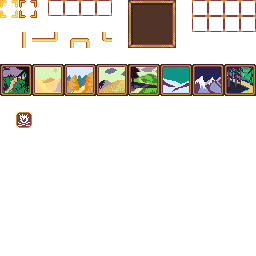
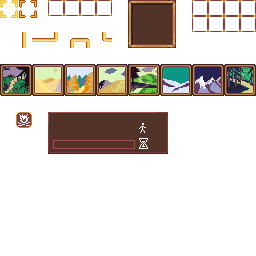
tasks

Changed region(s): [[0.1875, 0.4375, 0.6562, 0.625]]

diff --git a/RespiteMini/Main.c b/RespiteMini/Main.c
@@ -645,14 +645,14 @@ void renderTileInfo(Texture2D ui,int posX, int posY, int tileId, int level) {
         tileName = "Forrest";
     }
     
-    DrawTextEx(font, tileName, (struct Vector2) { posX + 32 + 2, posY }, fontSize, 1, colorNormal);
+    DrawTextEx(font, tileName, (struct Vector2) { posX + 32 + 2, posY }, fontSize, 0, colorNormal);
 
     if (level == 3) {
-        DrawTextEx(font, "Prominent", (struct Vector2) { posX + 32 + 2, posY + fontSize + 2 }, fontSize, 1, colorProminent);
+        DrawTextEx(font, "Prominent", (struct Vector2) { posX + 32 + 2, posY + fontSize + 2 }, fontSize, 0, colorProminent);
     } else if (level == 2){
-        DrawTextEx(font, "Moderate", (struct Vector2) { posX + 32 + 2, posY + fontSize + 2 }, fontSize, 1, colorModerate);
+        DrawTextEx(font, "Moderate", (struct Vector2) { posX + 32 + 2, posY + fontSize + 2 }, fontSize, 0, colorModerate);
     } else {
-        DrawTextEx(font, "Sparse", (struct Vector2) { posX + 32 + 2, posY + fontSize + 2 }, fontSize, 1, colorSparse);
+        DrawTextEx(font, "Sparse", (struct Vector2) { posX + 32 + 2, posY + fontSize + 2 }, fontSize, 0, colorSparse);
     }
 
 }
@@ -814,6 +814,41 @@ void renderTileInfoWindow(Texture2D ui, int windowX, int windowY, int windowSize
         renderTileResourceIcon(ui, resourceX, resourceY, 7, resources.town);
         incrementIcon(&resourceX, &resourceY, iconXspacing, edgeSpacing, windowX, windowSizeX);
     }
+}
+
+void renderTaskItem(Texture2D ui, int posX, int posY, int taskId, int assigned, int turnsReq, int turnsComplete) {
+    Rectangle taskBoxSrc = { 48,112,120,42 };
+    DrawTextureRec(ui, taskBoxSrc, (struct Vector2) { posX, posY }, WHITE);
+
+    char* taskName;
+
+    if (taskId == 0) {
+        taskName = "Get Water";
+    }
+    else if (taskId == 1) {
+        taskName = "Chop Wood";
+    }
+    else if (taskId == 2) {
+        taskName = "Hunt";
+    }
+    else if (taskId == 3) {
+        taskName = "Fish";
+    }
+    else if (taskId == 4) {
+        taskName = "Get Herbs";
+    }
+    else if (taskId == 5) {
+        taskName = "Mine";
+    }
+    else if (taskId == 6) {
+        taskName = "Farm";
+    }
+    else {
+        taskName = "Recruit";
+    }
+
+    DrawTextEx(font, taskName, (struct Vector2) { posX + 4, posY +4 }, fontSize, 0, colorNormal);
+
 }
 
 unsigned int getTileData(unsigned char x, unsigned char y, unsigned char* mapData) {
@@ -1028,6 +1063,8 @@ int findAsPath(iVec2 startTile, iVec2 endTile, unsigned char* mapData, int* path
     return 0;
 }
 
+
+
 void UpdateDrawFrame(void* v_state){
     
    
@@ -1119,40 +1156,41 @@ void UpdateDrawFrame(void* v_state){
         TileResources curTileRes = calcTileResources(curTileData);
         state->tasksUi.numTabs = 3;
         state->tasksUi.selectedTab = 0;
+        state->tasksUi.selectedTask = 0;
 
         state->tasksUi.cursorArea = 1;
 
         state->tasksUi.numTasks = 0;
         if (curTileRes.water) {
-            state->tasksUi.task[state->tasksUi.numTasks].id = 1;
+            state->tasksUi.task[state->tasksUi.numTasks].id = 0;
             state->tasksUi.numTasks += 1;
         }
         if (curTileRes.wood) {
-            state->tasksUi.task[state->tasksUi.numTasks].id = 2;
+            state->tasksUi.task[state->tasksUi.numTasks].id = 1;
             state->tasksUi.numTasks += 1;
         }
         if (curTileRes.animals) {
-            state->tasksUi.task[state->tasksUi.numTasks].id = 3;
+            state->tasksUi.task[state->tasksUi.numTasks].id = 2;
             state->tasksUi.numTasks += 1;
         }
         if (curTileRes.fish) {
-            state->tasksUi.task[state->tasksUi.numTasks].id = 4;
+            state->tasksUi.task[state->tasksUi.numTasks].id = 3;
             state->tasksUi.numTasks += 1;
         }
         if (curTileRes.plants) {
-            state->tasksUi.task[state->tasksUi.numTasks].id = 5;
+            state->tasksUi.task[state->tasksUi.numTasks].id = 4;
             state->tasksUi.numTasks += 1;
         }
         if (curTileRes.minerals) {
-            state->tasksUi.task[state->tasksUi.numTasks].id = 6;
+            state->tasksUi.task[state->tasksUi.numTasks].id = 5;
             state->tasksUi.numTasks += 1;
         }
         if (curTileRes.soil) {
-            state->tasksUi.task[state->tasksUi.numTasks].id = 7;
+            state->tasksUi.task[state->tasksUi.numTasks].id = 6;
             state->tasksUi.numTasks += 1;
         }
         if (curTileRes.town) {
-            state->tasksUi.task[state->tasksUi.numTasks].id = 8;
+            state->tasksUi.task[state->tasksUi.numTasks].id = 7;
             state->tasksUi.numTasks += 1;
         }
     }
@@ -1451,21 +1489,21 @@ void UpdateDrawFrame(void* v_state){
         DrawTextureRec(state->ui, statIcons, (struct Vector2) { windowX + 64, windowY +26}, WHITE); 
         DrawTextEx(font, health, (struct Vector2) { windowX + 81, windowY +26}, fontSize, 1, colorNormal);
 
-        if(state->tasksUiActive){
+        if(state->tasksUiActive) {
 
             int taskWindowX = 40;
             int taskWindowY = 30;
             int taskWindowSizeX = 400;
             int taskWindowSizey = 160;
-            int edgeSpacing = 8;
+            int edgeSpacing = 10;
 
             renderUiWindow(state->ui,taskWindowX,taskWindowY,taskWindowSizeX,taskWindowSizey);
 
             int taskListStartX = taskWindowX + edgeSpacing;
             int taskListStartY = taskWindowY + edgeSpacing;
 
-            int taskItemSpacingX = 120;
-            int taskItemSpacingY = 40;
+            int taskItemSpacingX = 130;
+            int taskItemSpacingY = 49;
             
 
             for (int i = 0; i < state->tasksUi.numTasks; i++) {
@@ -1474,10 +1512,13 @@ void UpdateDrawFrame(void* v_state){
                     taskListStartX = taskWindowX + edgeSpacing;
                 }
 
-                if(state->tasksUi.cursorArea==1 && state->tasksUi.selectedTask==i){
-                    DrawText("task", taskListStartX, taskListStartY, fontSize, RED);
+                int taskId = state->tasksUi.task[i].id;
+
+                renderTaskItem(state->ui, taskListStartX, taskListStartY, taskId, 0, 0, 0);
+                if(state->tasksUi.cursorArea==1 && state->tasksUi.selectedTask==i) {
+                    //DrawText("task", taskListStartX, taskListStartY, fontSize, RED);
                 } else {
-                    DrawText("task", taskListStartX, taskListStartY, fontSize, colorNormal);
+                    //DrawText("task", taskListStartX, taskListStartY, fontSize, colorNormal);
                 }
                 
                 taskListStartX += taskItemSpacingX;
